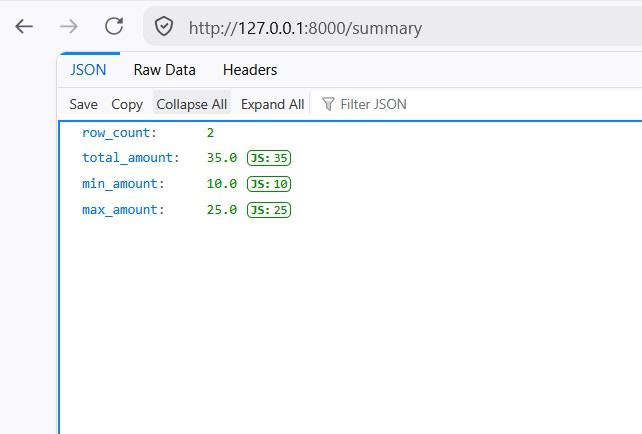
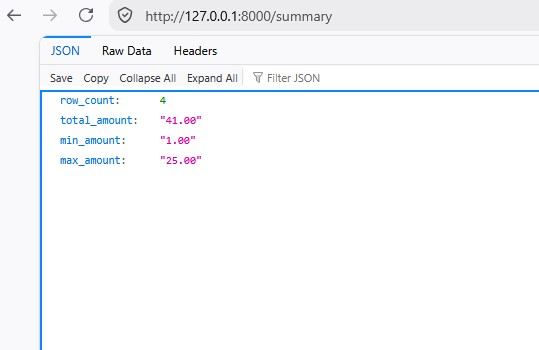
Refresh README walkthrough screenshots and grouped links.
Replace upload and summary images with current UI. Clarify intro and step 5 with region and product grouped report URLs.

Changed region(s): [[0.0594, 0.0, 1.0, 1.0], [0.0, 0.0286, 0.0594, 0.0857]]

diff --git a/README.md b/README.md
@@ -2,7 +2,7 @@
 
 [![Tests](https://github.com/MiroslavKocian/financial-report-generator/actions/workflows/test.yml/badge.svg)](https://github.com/MiroslavKocian/financial-report-generator/actions/workflows/test.yml)
 
-A small web app: you upload an Excel file with sales data, the app saves every row into a SQLite database, and a summary page shows the total, minimum, and maximum `amount`.
+A small web app: you upload an Excel file with sales data, the app saves every row into a SQLite database, and you can view a summary, grouped JSON reports, and an Excel summary export with decimal-safe `amount` totals.
 
 Built with Python 3.11, FastAPI, pandas, and SQLite. All database queries are plain SQL written by hand (no Object–relational mapping).
 
@@ -65,8 +65,6 @@ Keep this terminal window open. The app runs as long as it is open. To stop it, 
 
    ![Upload page at http://127.0.0.1:8000](docs/images/04-upload-page.jpg)
 
-   The page also links to the grouped report and the Excel download (steps 5 and 6).
-
 2. Under **Select Excel file**, click the file button and pick the sample file `sales_example.xlsx`. It is in the `examples` folder inside the project folder you downloaded in step 1.
 3. Click **Upload and Store**. The browser shows a short confirmation, for example:
 
@@ -84,7 +82,9 @@ Keep this terminal window open. The app runs as long as it is open. To stop it, 
 
    ![Summary JSON for the sample file](docs/images/04-summary.jpg)
 
-5. Open [http://127.0.0.1:8000/report/grouped](http://127.0.0.1:8000/report/grouped). The sample file is grouped by `region` (North 11.00, South 30.00). Use the **by product** link on the upload page, or `?group_by=product`, for product A 35.00 and B 6.00.
+5. Grouped report (sample file, after upload):
+   - By region: [http://127.0.0.1:8000/report/grouped?group_by=region](http://127.0.0.1:8000/report/grouped?group_by=region) — North `11.00`, South `30.00`.
+   - By product: [http://127.0.0.1:8000/report/grouped?group_by=product](http://127.0.0.1:8000/report/grouped?group_by=product) — A `35.00`, B `6.00`.
 6. Download the summary as Excel: [http://127.0.0.1:8000/report/export.xlsx](http://127.0.0.1:8000/report/export.xlsx). The workbook has one **Summary** sheet (same numbers as `/summary`).
 
 Every new upload replaces the previous data. Uploading a file with the same name again is allowed.
